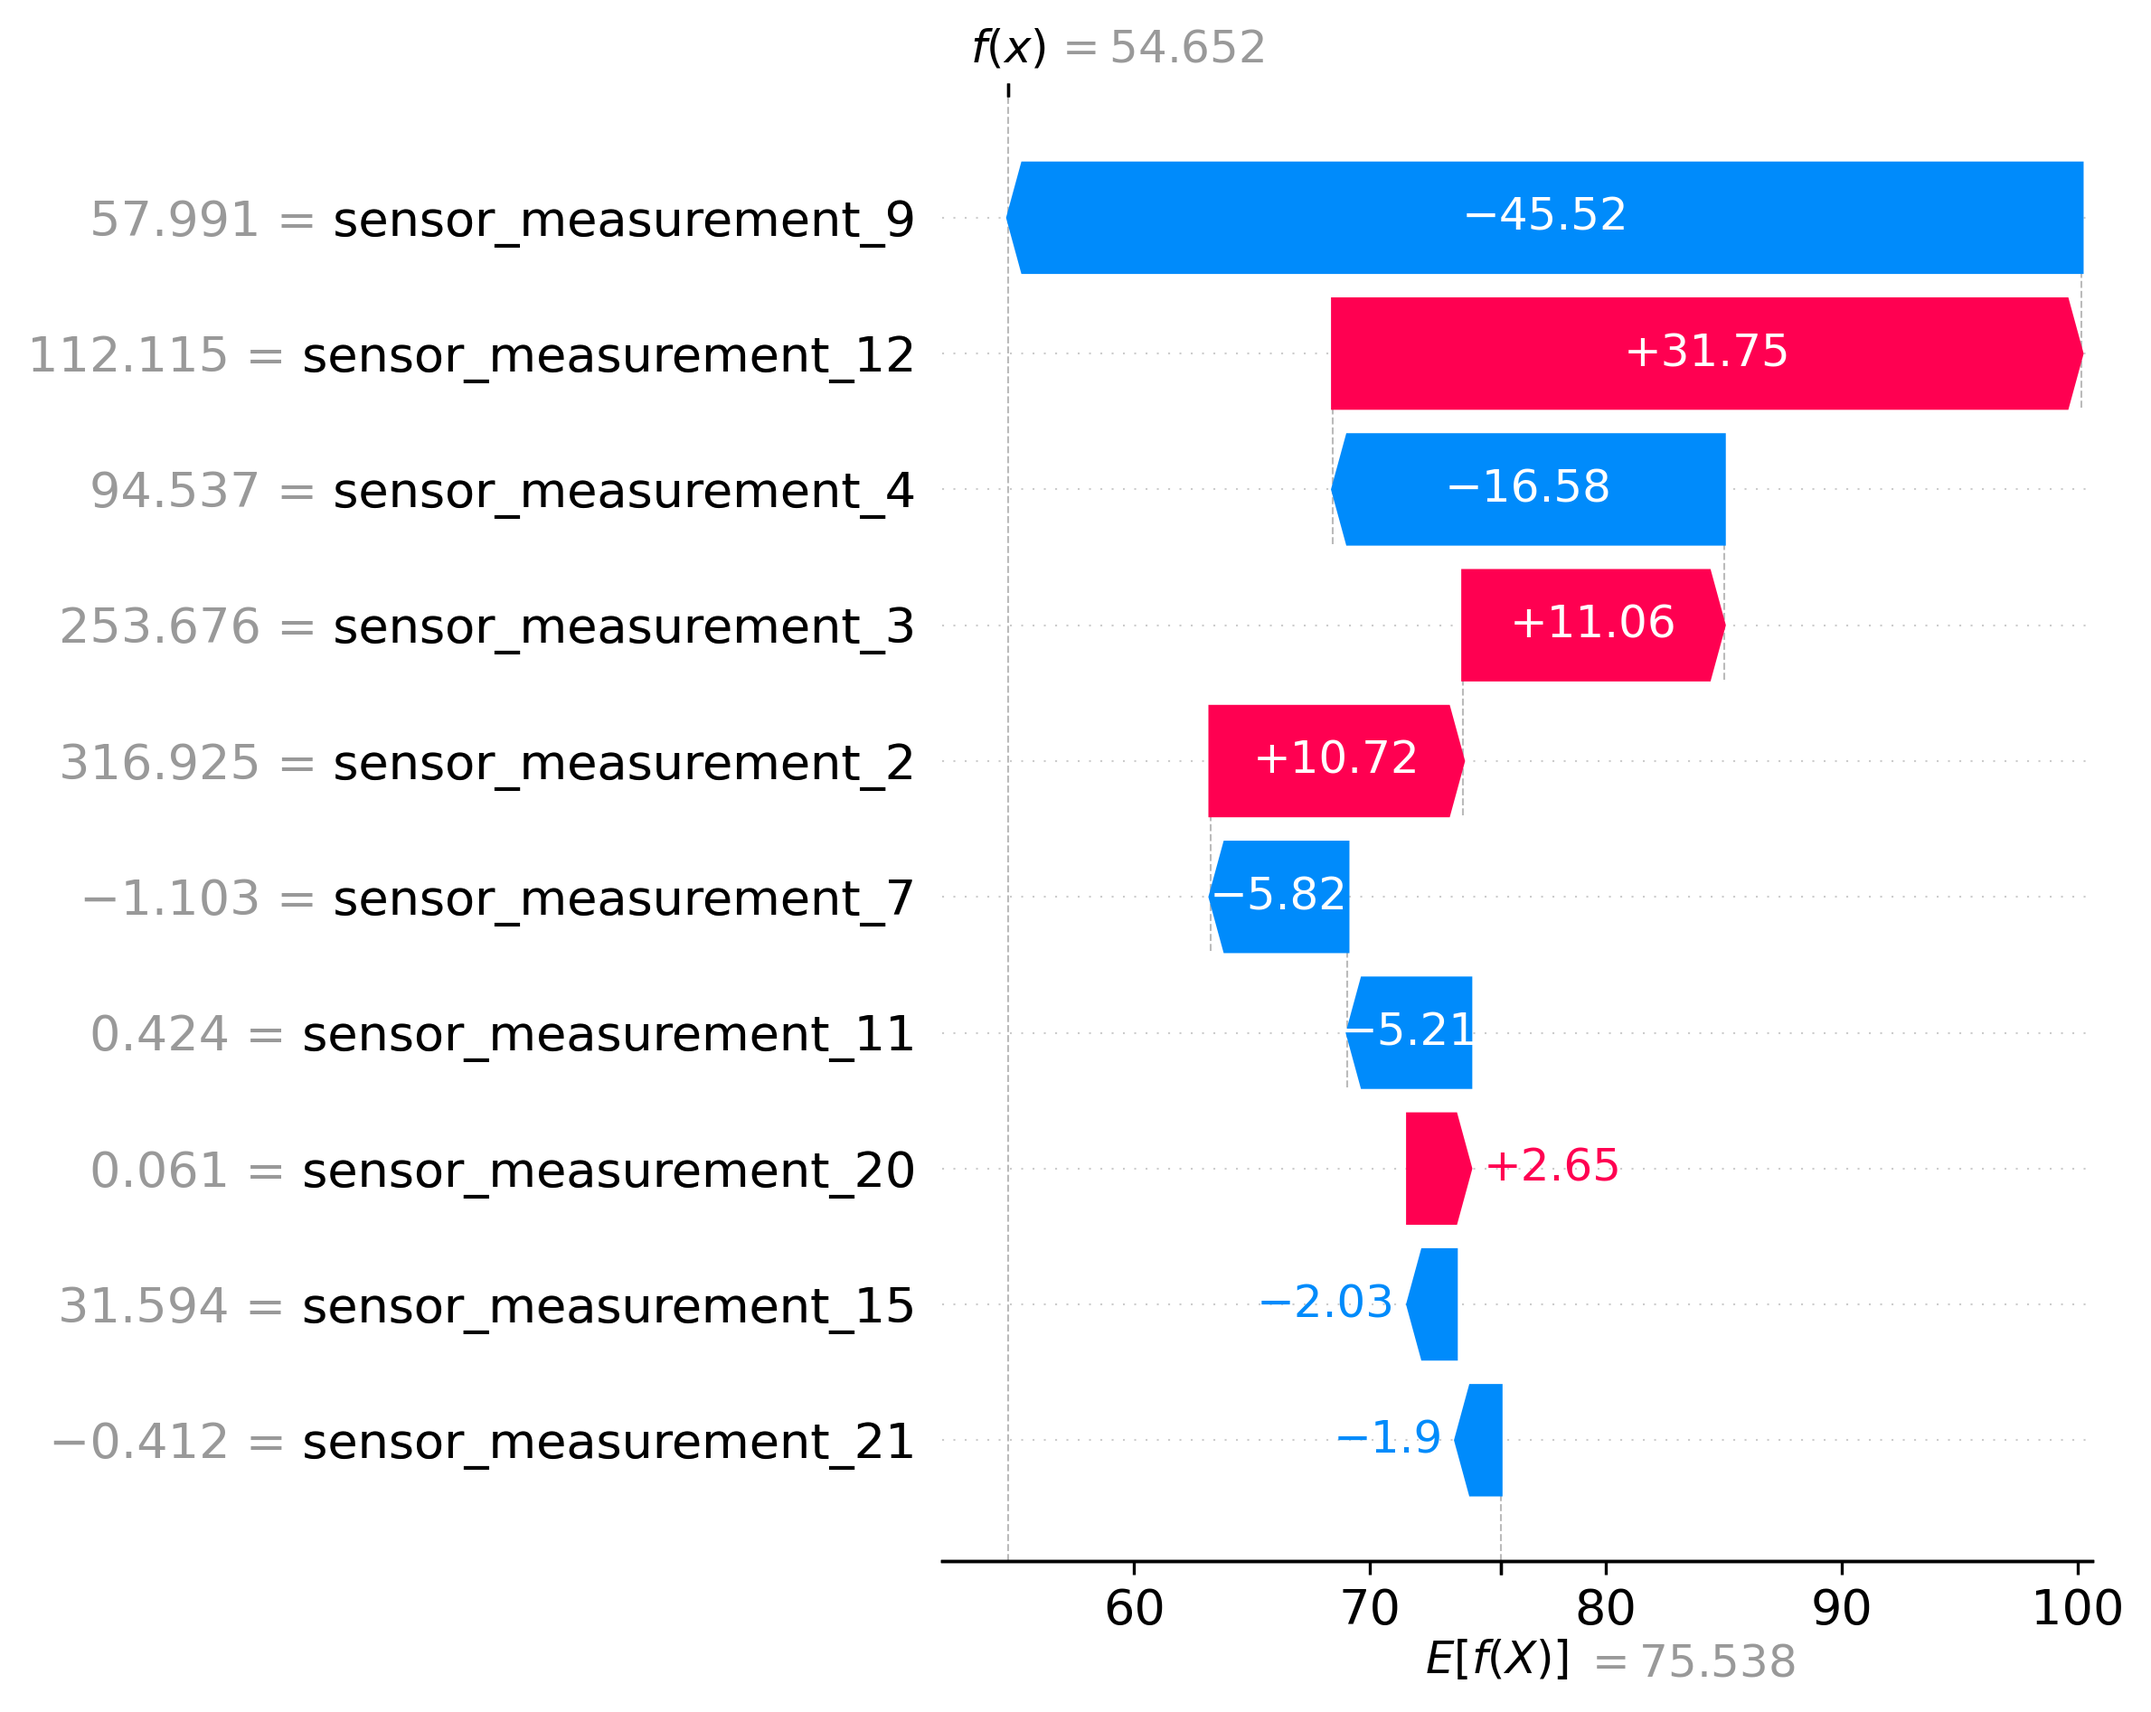
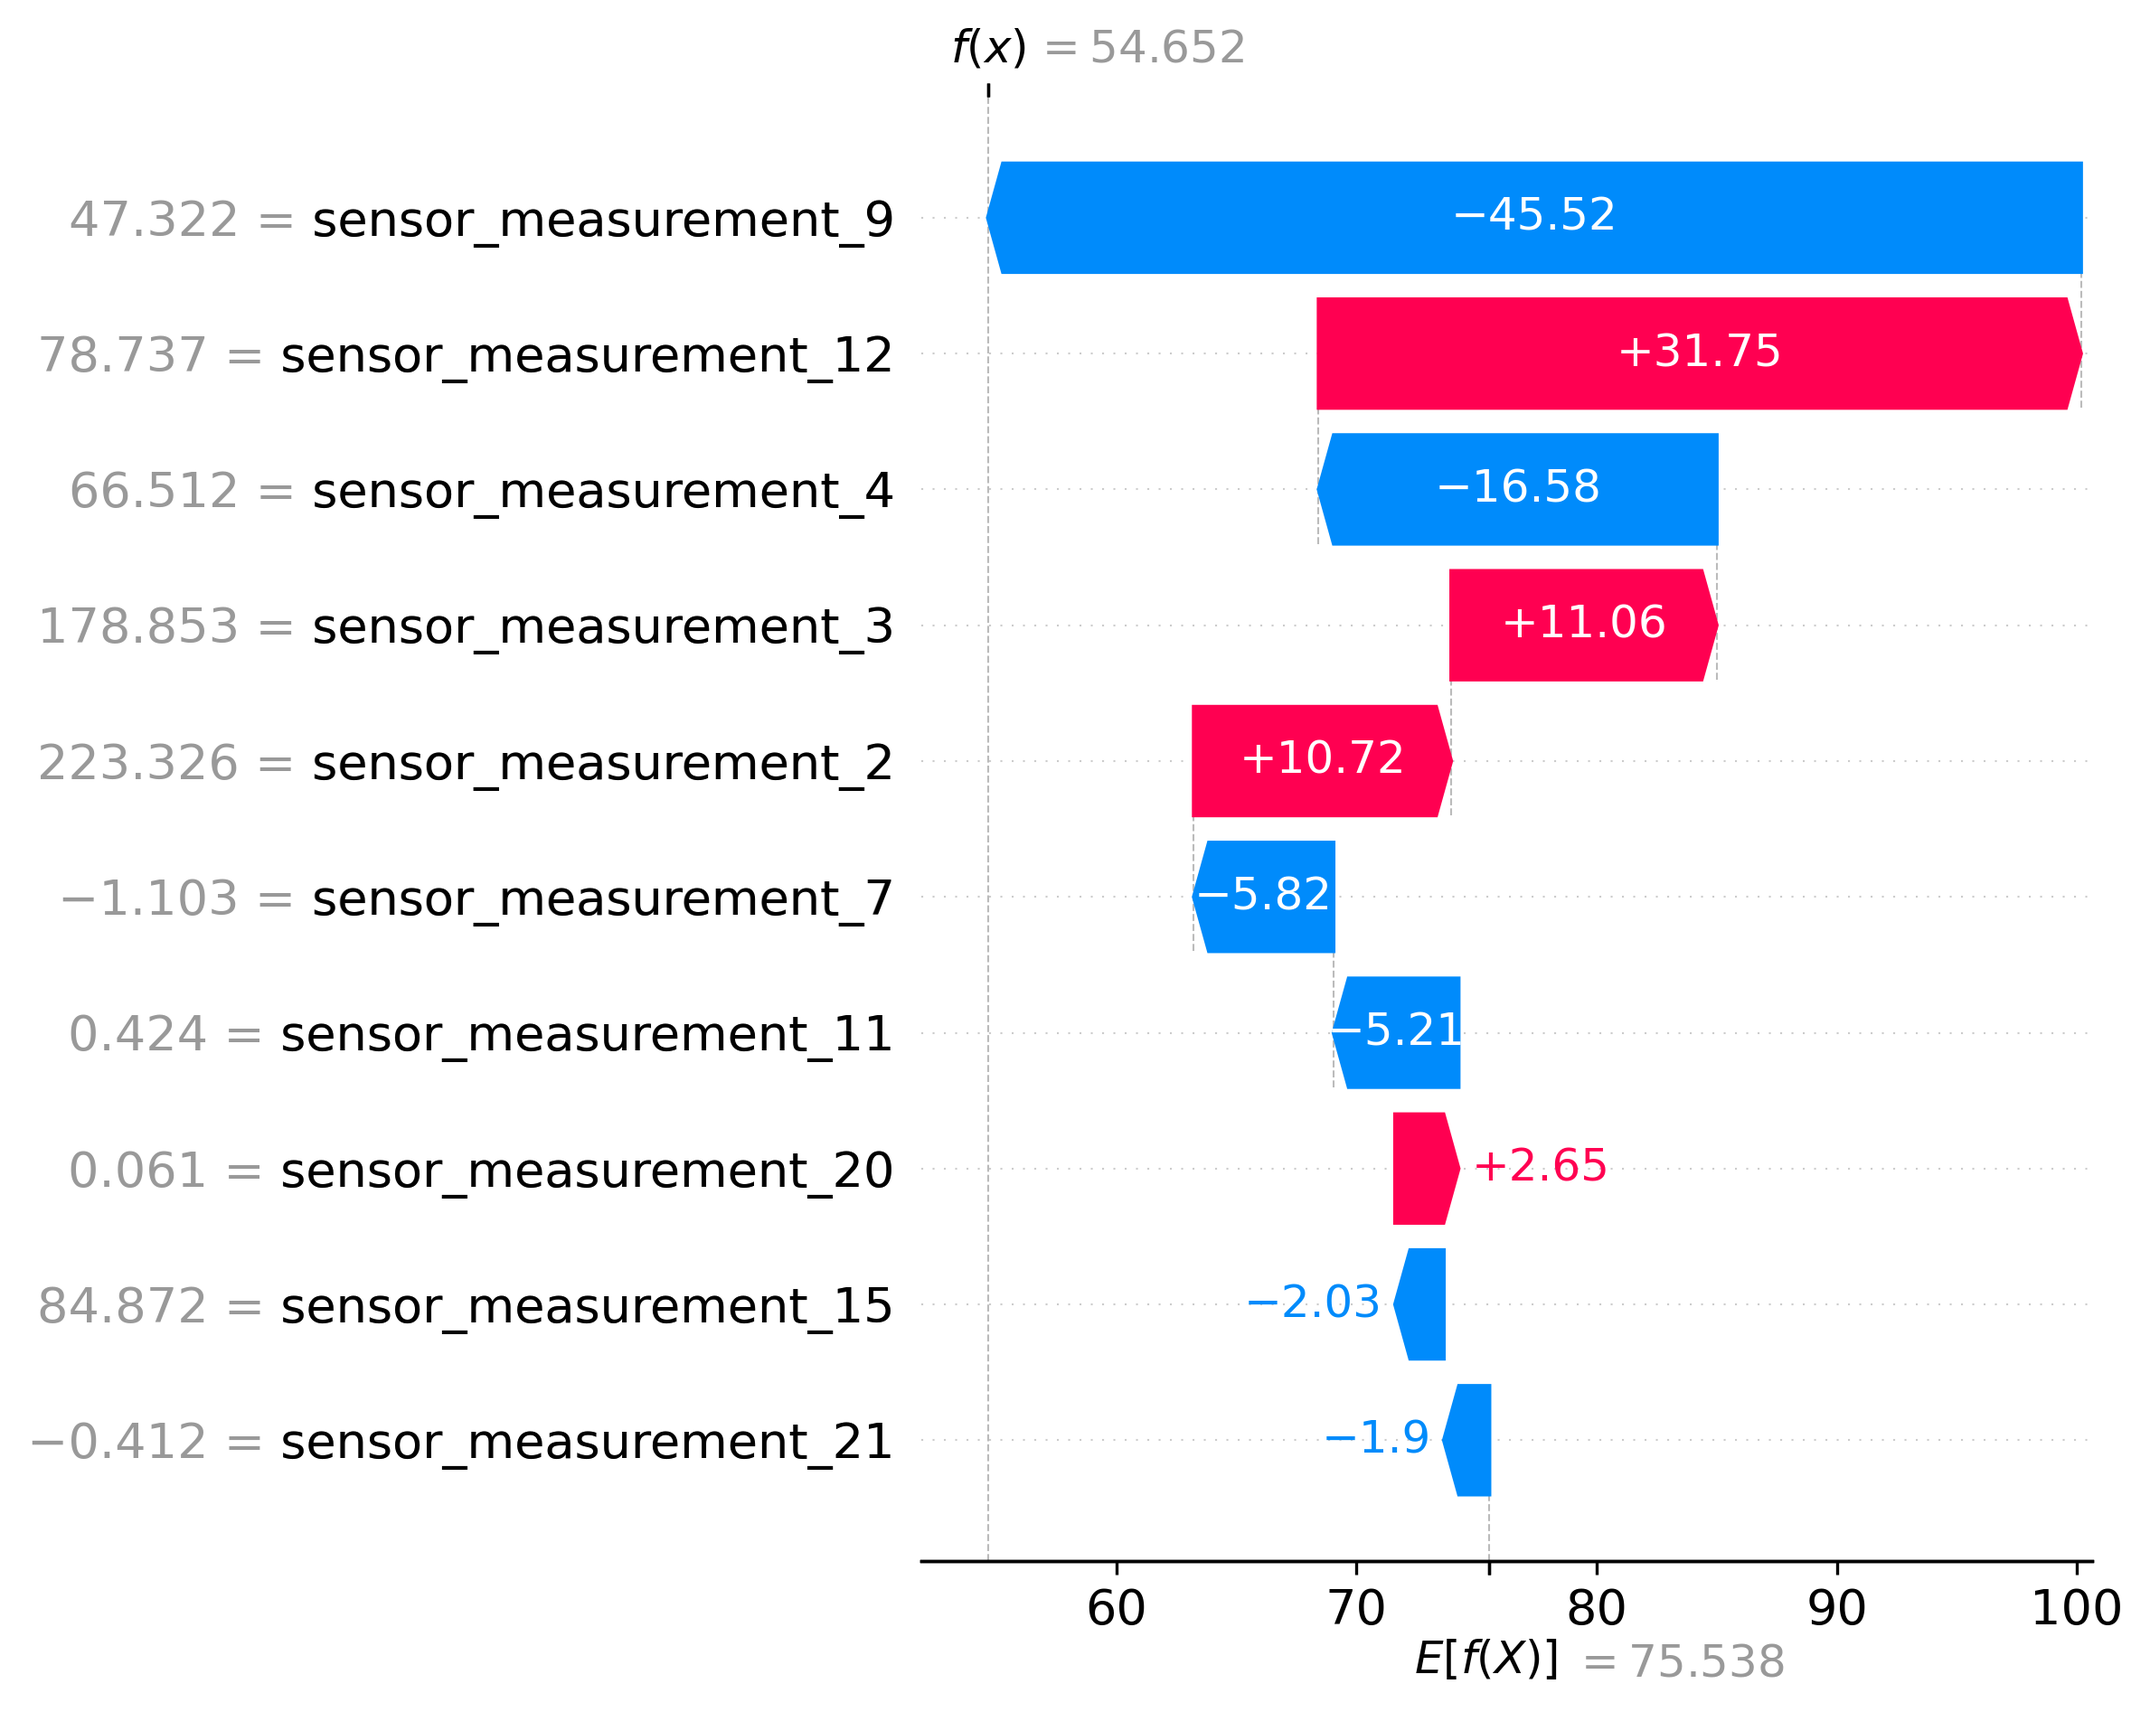
ModelSeçmeBarınınKonumuDeğişti

diff --git a/app.py b/app.py
@@ -110,21 +110,14 @@ def load_models(model_name="Random Forest"):
             st.error(f"Model yükleme hatası: {e}")
             st.stop()
 
-# Başlık ve model seçimi
-col_title, col_model = st.columns([3, 1])
-with col_title:
-    st.title("🧠 Makine Öğrenimi ile Erken Arıza Tespiti")
-    st.markdown("**Gerçek zamanlı sensör verilerinden makine kalan ömrü (RUL) tahmini**")
-with col_model:
-    st.markdown("<br>", unsafe_allow_html=True)  # Dikey hizalama için boşluk
-    selected_model = st.selectbox(
-        "Model Seç:",
-        BEST_MODELS,
-        index=4,  # Varsayılan: Random Forest
-        help="En iyi 5 modelden birini seçin"
-    )
+# Başlık ve açıklama
+st.title("🧠 Makine Öğrenimi ile Erken Arıza Tespiti")
+st.markdown("**Gerçek zamanlı sensör verilerinden makine kalan ömrü (RUL) tahmini**")
 
 st.markdown("---")
+
+# Varsayılan model (manuel girişte değiştirilecek)
+selected_model = "Random Forest"
 
 # Model yükle
 model, scaler, features = load_models(selected_model)
@@ -205,7 +198,20 @@ elif data_source == "Dosya Yükle":
         st.stop()
 
 else:  # Manuel Giriş
-    st.subheader("✏ Manuel Veri Girişi")
+    # Başlık ve model seçimi aynı hizada
+    col_header, col_model = st.columns([3, 1])
+    with col_header:
+        st.subheader("✏ Manuel Veri Girişi")
+    with col_model:
+        selected_model = st.selectbox(
+            "Model Seç:",
+            BEST_MODELS,
+            index=4,  # Varsayılan: Random Forest
+            help="En iyi 5 modelden birini seçin"
+        )
+        # Seçilen modele göre modeli yeniden yükle
+        model, scaler, features = load_models(selected_model)
+    
     st.markdown("**Tüm sensör değerlerini girin:**")
     
     # Ana sensörler
